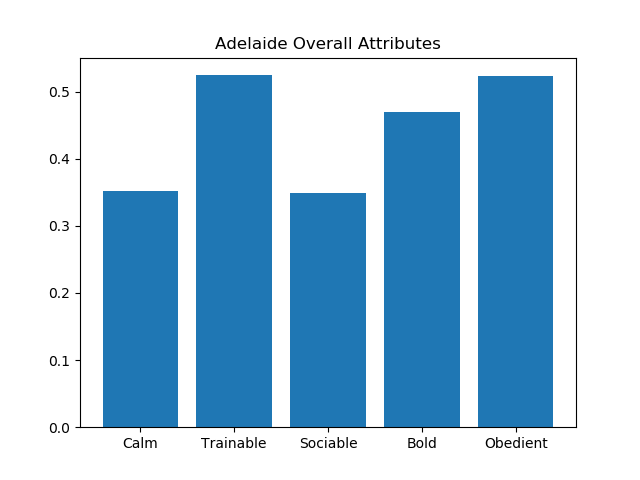
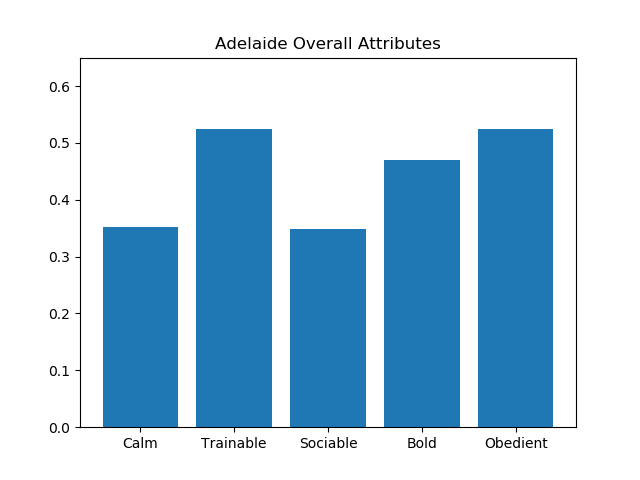
Fixed bar graph scale

diff --git a/analysis.py b/analysis.py
@@ -130,17 +130,18 @@ print('\nTop Dogs Count')
 pprint(nyc_breeds['BreedName'].value_counts().nlargest(5))
 nyc_breeds_grp = nyc_breeds.groupby('Borough')
 # Most popular breeds by Borough
+n = False # Whether or not to normalize values
 print('\nTop Dogs By Borough')
 print('\nManhattan')
-print(nyc_breeds_grp.get_group('Manhattan')['BreedName'].value_counts().head(5))
+print(nyc_breeds_grp.get_group('Manhattan')['BreedName'].value_counts(normalize=n).head(5))
 print('\nQueens')
-print(nyc_breeds_grp.get_group('Queens')['BreedName'].value_counts().head(5))
+print(nyc_breeds_grp.get_group('Queens')['BreedName'].value_counts(normalize=n).head(5))
 print('\nStaten Island')
-print(nyc_breeds_grp.get_group('Staten Island')['BreedName'].value_counts().head(5))
+print(nyc_breeds_grp.get_group('Staten Island')['BreedName'].value_counts(normalize=n).head(5))
 print('\nBrooklyn')
-print(nyc_breeds_grp.get_group('Brooklyn')['BreedName'].value_counts().head(5))
+print(nyc_breeds_grp.get_group('Brooklyn')['BreedName'].value_counts(normalize=n).head(5))
 print('\nBronx')
-print(nyc_breeds_grp.get_group('Bronx')['BreedName'].value_counts().head(5))
+print(nyc_breeds_grp.get_group('Bronx')['BreedName'].value_counts(normalize=n).head(5))
 
 
 # NYC Overall 
@@ -150,7 +151,8 @@ plt.xlabel('Attributes')
 nyc_attrib_overall = nyc_attrib[lst]
 nyc_attrib_overall = nyc_attrib.mean()
 plt.bar(nyc_attrib_overall.index, nyc_attrib_overall.values)
-# plt.savefig('plots/nyc_overall.png')
+plt.ylim([0,0.65])
+plt.savefig('plots/nyc_overall.png')
 plt.show()
 
 
@@ -160,12 +162,12 @@ chi2_breed_com = itertools.combinations(chi2_breed, 2)
 
 nyc_breeds_5 = nyc_registry[nyc_registry['BreedName'].isin(chi2_breed)] #top 5 breeds overall
 for i in chi2_breed_com:
-    print(i)
+    print('\n',i)
     nyc_breeds_2 = nyc_registry[nyc_registry['BreedName'].isin(i)]
-    contingency_table = pd.crosstab(nyc_breeds_2['BreedName'], nyc_breeds_5['Borough'])
+    contingency_table = pd.crosstab(nyc_breeds_2['BreedName'], nyc_breeds_2['Borough'])
     nyc_chi2 = stats.chi2_contingency(contingency_table)
-    print('\nTest statistic: {}'.format(nyc_chi2[0].round(2)))
-    print('P-value: {}'.format(nyc_chi2[1]))
+    print('Test statistic: {}'.format(nyc_chi2[0].round(2)))
+    print('P-value: {}'.format(nyc_chi2[1].round(4)))
 
 
 # Adelaide
@@ -178,7 +180,8 @@ print(adelaide_attrib[lst].std().round(decimals=2))
 
 plt.title('Adelaide Overall Attributes')
 plt.bar(adelaide_attrib_mean.index, adelaide_attrib_mean.values)
-# plt.savefig('plots/adelaide_overall.png')
+plt.ylim([0,0.65])
+plt.savefig('plots/adelaide_overall.png')
 
 plt.show()
 
@@ -192,7 +195,8 @@ print(edmonton_attrib[lst].std().round(decimals=2))
 
 plt.title('Edmonton Overall Attributes')
 plt.bar(edmonton_attrib_mean.index, edmonton_attrib_mean.values)
-# plt.savefig('plots/edmonton_overall.png')
+plt.ylim([0,0.65])
+plt.savefig('plots/edmonton_overall.png')
 plt.show()
 
 ancestral = wiki[['Breed', 'Origin']]
@@ -225,7 +229,7 @@ plt.legend(loc=(1.04,0.6))
 plt.title('Scores by UK and Irish Ancestry')
 ax.set_ylabel('Score')
 ax.set_xlabel('Territory')
-# plt.savefig('plots/uk_ireland.png')
+plt.savefig('plots/uk_ireland.png')
 plt.show()
 
 # Combining Scotland, Wales, and England as United Kingdom
